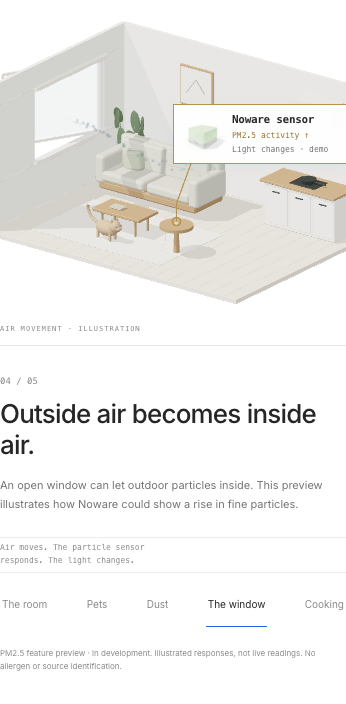
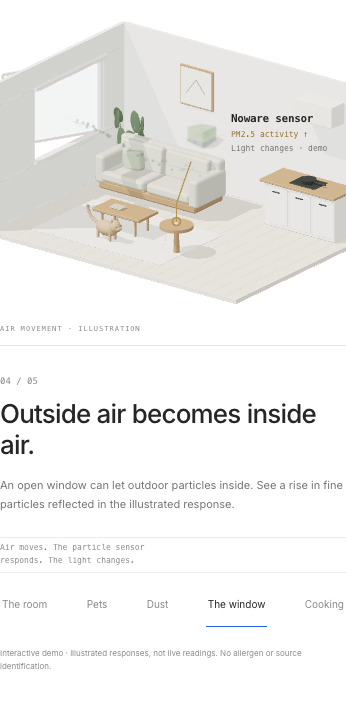
Match loading and live framing and restore original America closing section

diff --git a/src/purpose/purpose.css b/src/purpose/purpose.css
@@ -1,11 +1,11 @@
 .purpose-story{background:#fff;color:#262626;border-top:1px solid #e8e8e8;padding:74px 4.8% 0}
 .purpose-heading{max-width:1200px;margin:0 auto 25px;display:grid;grid-template-columns:1.2fr 1fr;column-gap:10%;align-items:end}.purpose-eyebrow{font:9px ui-monospace,SFMono-Regular,Menlo,monospace;letter-spacing:1.7px;color:#737373;grid-column:1/-1}.purpose-heading h2{font-size:clamp(38px,4vw,60px);line-height:1.08;letter-spacing:-2.4px;font-weight:500;margin:22px 0 0}.purpose-heading>p{font-size:14px;line-height:1.9;color:#737373;max-width:365px;margin:0 0 3px}
-.room-scroll{height:auto;position:relative}.room-sticky{position:relative;top:0;max-width:1300px;margin:auto;padding-bottom:16px;background:#fff}.room-stage{position:relative;height:min(62vh,600px);min-height:330px}.room-stage picture,.room-canvas{position:absolute;inset:0}.room-poster{width:100%;height:100%;object-fit:contain}.room-ready picture{visibility:hidden}.room-canvas canvas{display:block;width:100%;height:100%;touch-action:pan-y}.room-device-label{position:absolute;transform:translate(28px,-45px);pointer-events:none;display:flex;flex-direction:column;gap:3px;background:#ffffffed;padding:9px 12px;border-left:1px solid #a4b39c;font:9px ui-monospace,SFMono-Regular,Menlo,monospace;white-space:nowrap}.room-device-label:before{content:'';position:absolute;left:-29px;bottom:18px;width:28px;height:1px;background:#a4b39c;transform-origin:right;transform:rotate(-25deg)}.room-device-label>span{color:#737373;font-size:8px}.room-device-label strong{font-weight:400;color:#4f6849}.room-device-label small{font:inherit;font-size:8px;color:#737373}.room-cooking .room-device-label strong{color:#9b7735}.room-illustration{position:absolute;bottom:12px;left:0;color:#8a8a8a;font:8px ui-monospace,SFMono-Regular,Menlo,monospace;letter-spacing:1px}
+.room-scroll{height:auto;position:relative}.room-sticky{position:relative;top:0;max-width:1300px;margin:auto;padding-bottom:16px;background:#fff}.room-stage{position:relative;height:auto;aspect-ratio:1300/558;min-height:0}.room-stage picture,.room-canvas{position:absolute;inset:0}.room-poster{width:100%;height:100%;object-fit:contain}.room-ready picture{visibility:hidden}.room-canvas canvas{display:block;width:100%;height:100%;touch-action:pan-y}.room-device-label{position:absolute;transform:translate(28px,-45px);pointer-events:none;display:flex;flex-direction:column;gap:3px;background:#ffffffed;padding:9px 12px;border-left:1px solid #a4b39c;font:9px ui-monospace,SFMono-Regular,Menlo,monospace;white-space:nowrap}.room-device-label:before{content:'';position:absolute;left:-29px;bottom:18px;width:28px;height:1px;background:#a4b39c;transform-origin:right;transform:rotate(-25deg)}.room-device-label>span{color:#737373;font-size:8px}.room-device-label strong{font-weight:400;color:#4f6849}.room-device-label small{font:inherit;font-size:8px;color:#737373}.room-cooking .room-device-label strong{color:#9b7735}.room-illustration{position:absolute;bottom:12px;left:0;color:#8a8a8a;font:8px ui-monospace,SFMono-Regular,Menlo,monospace;letter-spacing:1px}
 .room-caption{display:grid;grid-template-columns:1.2fr 1fr;column-gap:10%;align-items:center;border-top:1px solid #e7e7e7;padding:24px 0;min-height:142px}.room-count{font:9px ui-monospace,SFMono-Regular,Menlo,monospace;color:#8a8a8a}.room-caption h3{font-size:clamp(23px,2.3vw,33px);font-weight:500;line-height:1.2;letter-spacing:-.9px;margin:10px 0 0;max-width:470px}.room-caption>p{font-size:12px;line-height:1.9;color:#737373;margin:0;max-width:395px}
 .room-chapters{display:flex;justify-content:space-between;gap:12px;border-top:1px solid #ececec;padding:10px 0}.room-chapters button{background:none;border:0;border-bottom:1px solid transparent;min-height:44px;font:inherit;font-size:11px;padding:0 8px;color:#8a8a8a;cursor:pointer}.room-chapters button span{font:8px ui-monospace,SFMono-Regular,Menlo,monospace;margin-right:12px;color:#aaa}.room-chapters button[aria-current=step]{color:#262626;border-bottom-color:#2563eb}.room-chapters button[aria-current=step] span{color:#2563eb}.room-chapters .room-resume{font-size:9px}.room-note,.room-fallback{color:#8a8a8a;font-size:9px;line-height:1.7;margin:10px 0 0}.room-fallback{color:#555}.room-unavailable .room-device-label{display:none}.room-unavailable .room-scroll{height:auto}
 .purpose-ending{max-width:1200px;margin:0 auto;padding:65px 0 70px;border-top:1px solid #e7e7e7;position:relative}.purpose-ending h2{font-size:clamp(30px,3vw,44px);line-height:1.15;letter-spacing:-1.7px;font-weight:500;margin:0 0 20px}.purpose-ending p{font-size:14px;line-height:1.8;color:#737373;margin:0}.purpose-ending>span{position:absolute;right:0;bottom:72px;font-size:12px;color:#2563eb}
 .purpose-size{padding:65px 8%;background:#fafafa;display:flex;justify-content:space-between;align-items:center;gap:40px;border-top:1px solid #e8e8e8;border-bottom:1px solid #e8e8e8}.purpose-size[hidden]{display:none}.purpose-size h2{font-size:clamp(32px,3.3vw,48px);line-height:1.15;letter-spacing:-1.8px;font-weight:500;color:#262626;margin:20px 0 18px}.purpose-size p{font-size:13px;color:#737373;margin:0;line-height:1.8}.purpose-size-open{display:flex;gap:30px;align-items:center;background:none;border:0;border-bottom:1px solid #aaa;min-height:48px;padding:10px 0;color:#262626;font:inherit;font-size:12px;cursor:pointer;white-space:nowrap}.purpose-size-open span{font-size:18px}.purpose-story button:focus-visible,.purpose-size-open:focus-visible{outline:2px solid #2563eb;outline-offset:4px}
-@media(max-width:700px){.purpose-story{padding:45px 22px 0}.purpose-heading{display:block;margin-bottom:15px}.purpose-heading h2{font-size:39px;letter-spacing:-1.7px;margin:18px 0}.purpose-heading>p{font-size:12px;line-height:1.8}.room-scroll{height:auto}.room-sticky{position:relative;top:0;padding-bottom:30px}.room-stage{height:345px;min-height:0;margin:0 -16px}.room-device-label{font-size:7px;transform:translate(15px,-45px);padding:6px;gap:2px}.room-device-label>span,.room-device-label small{font-size:7px}.room-device-label:before{left:-16px;width:15px}.room-illustration{left:16px;font-size:7px}.room-caption{display:block;padding:22px 0;min-height:192px}.room-caption h3{font-size:26px;margin:10px 0 15px;letter-spacing:-.8px}.room-caption>p{font-size:11px;line-height:1.8}.room-chapters{gap:5px;justify-content:space-between}.room-chapters button{font-size:10px;padding:0 2px}.room-chapters button span{display:none}.room-note{font-size:8px}.purpose-ending{padding:40px 0}.purpose-ending h2{font-size:32px;letter-spacing:-1.1px}.purpose-ending p{font-size:12px}.purpose-ending>span{position:static;display:block;margin-top:22px;font-size:11px}.purpose-size{padding:40px 22px;flex-direction:column;align-items:flex-start;gap:22px}.purpose-size h2{font-size:33px;letter-spacing:-1.2px}.purpose-size p{font-size:12px}}
+@media(max-width:700px){.purpose-story{padding:45px 22px 0}.purpose-heading{display:block;margin-bottom:15px}.purpose-heading h2{font-size:39px;letter-spacing:-1.7px;margin:18px 0}.purpose-heading>p{font-size:12px;line-height:1.8}.room-scroll{height:auto}.room-sticky{position:relative;top:0;padding-bottom:30px}.room-stage{height:auto;aspect-ratio:378/345;min-height:0;margin:0 -16px}.room-device-label{font-size:7px;transform:translate(15px,-45px);padding:6px;gap:2px}.room-device-label>span,.room-device-label small{font-size:7px}.room-device-label:before{left:-16px;width:15px}.room-illustration{left:16px;font-size:7px}.room-caption{display:block;padding:22px 0;min-height:192px}.room-caption h3{font-size:26px;margin:10px 0 15px;letter-spacing:-.8px}.room-caption>p{font-size:11px;line-height:1.8}.room-chapters{gap:5px;justify-content:space-between}.room-chapters button{font-size:10px;padding:0 2px}.room-chapters button span{display:none}.room-note{font-size:8px}.purpose-ending{padding:40px 0}.purpose-ending h2{font-size:32px;letter-spacing:-1.1px}.purpose-ending p{font-size:12px}.purpose-ending>span{position:static;display:block;margin-top:22px;font-size:11px}.purpose-size{padding:40px 22px;flex-direction:column;align-items:flex-start;gap:22px}.purpose-size h2{font-size:33px;letter-spacing:-1.2px}.purpose-size p{font-size:12px}}
 @media(prefers-reduced-motion:reduce){.room-scroll{height:auto}.room-sticky{position:relative;top:0}}
 
 .room-playback{display:flex;align-items:center;justify-content:space-between;gap:20px;border-top:1px solid #ececec;padding:4px 0}.room-play{background:none;border:0;min-height:44px;padding:0 8px;font:inherit;font-size:11px;color:#404040;cursor:pointer}.room-sequence{font:9px ui-monospace,SFMono-Regular,Menlo,monospace;color:#8a8a8a}.purpose-story[data-detection=sensing] .room-device-label,.purpose-story[data-detection=signal] .room-device-label{border-color:#b69251}.purpose-story[data-detection=signal] .room-device-label strong{color:#95712d}

diff --git a/src/showcase/scene.js b/src/showcase/scene.js
@@ -16,18 +16,21 @@ export async function createScene(host,state,onSelect,onReady){
  const diffuser=parts.diffuser;diffuser.material=new T.MeshPhysicalMaterial({color:'#e1f0d5',roughness:.5,metalness:0,transmission:.08,thickness:1.3,ior:1.45,emissive:settings.colors.good,emissiveIntensity:.28});
  diffuser.material.onBeforeCompile=shader=>{shader.vertexShader=shader.vertexShader.replace('#include <common>','#include <common>\nvarying vec3 vShellPosition;').replace('#include <begin_vertex>','#include <begin_vertex>\nvShellPosition = position;');shader.fragmentShader=shader.fragmentShader.replace('#include <common>','#include <common>\nvarying vec3 vShellPosition;').replace('#include <emissivemap_fragment>','#include <emissivemap_fragment>\nfloat diffusion = 1.0 - smoothstep(10.0, 33.0, vShellPosition.y);\ntotalEmissiveRadiance *= 0.35 + diffusion * 1.5;\ndiffuseColor.rgb *= 0.995 + 0.005 * sin(vShellPosition.y * 35.0);');};
  const bases=new Map();model.traverse(o=>{if(o.material?.emissive)bases.set(o,o.material.emissive.clone())});
- const flow=makeAirflow();pivot.add(flow.group);let raf=0,visible=true,previous=performance.now(),time=0,currentExplode=0,rotation=0,tilt=0;const tint=new T.Color(settings.colors[state.air]);
+ const flow=makeAirflow();pivot.add(flow.group);let raf=0,visible=true,previous=performance.now(),time=0,currentExplode=0,rotation=0,tilt=0,renderWidth=0,renderHeight=0,ready=false;const tint=new T.Color(settings.colors[state.air]);
  const labels=[...host.parentElement.querySelectorAll('[data-anchor]')];
- function resize(){const w=host.clientWidth,h=host.clientHeight;if(!w||!h)return;renderer.setSize(w,h);camera.aspect=w/h;const distance=innerWidth<650?1.15:1;camera.position.set(...settings.camera).multiplyScalar(distance);camera.lookAt(...settings.target);camera.updateProjectionMatrix();wake();}
- function frame(now){raf=0;if(disposed||!visible||document.hidden)return;const dt=Math.max(0,Math.min((now-previous)/1000,.05));previous=now;time+=dt;const pose=storyPose(state.progress);const target=state.mode==='scroll'?pose.explode:state.exploded?1:0;currentExplode=state.reduced?target:T.MathUtils.damp(currentExplode,target,5,dt);for(const [name,offset]of Object.entries(settings.explode))parts[name].position.y=offset*currentExplode;
+ function resize(){wake()}
+ function frame(now){raf=0;if(disposed||!visible||document.hidden)return;
+ const width=host.clientWidth,height=host.clientHeight;if(!width||!height)return;
+ if(width!==renderWidth||height!==renderHeight){renderer.setSize(width,height,false);renderWidth=width;renderHeight=height;camera.aspect=width/height;camera.fov=T.MathUtils.radToDeg(2*Math.atan(Math.tan(T.MathUtils.degToRad(settings.fov)/2)*Math.max(1,settings.posterAspect/camera.aspect)));camera.updateProjectionMatrix()}
+ const dt=Math.max(0,Math.min((now-previous)/1000,.05));previous=now;time+=dt;const pose=storyPose(state.progress);const target=state.mode==='scroll'?pose.explode:state.exploded?1:0;currentExplode=state.reduced?target:T.MathUtils.damp(currentExplode,target,5,dt);for(const [name,offset]of Object.entries(settings.explode))parts[name].position.y=offset*currentExplode;
  tint.lerp(new T.Color(settings.colors[state.air]),state.reduced?1:1-Math.exp(-dt*4));diffuser.material.emissive.copy(tint);diffuser.material.color.copy(new T.Color('#faf8eb').lerp(tint,.55));diffuser.material.emissiveIntensity=.36*(1-currentExplode*.5);spill.material.color.copy(tint);spill.material.opacity=.14*(1-currentExplode*.8);
  rotation=state.reduced?state.rotation:T.MathUtils.damp(rotation,state.rotation,8,dt);tilt=state.reduced?state.tilt:T.MathUtils.damp(tilt,state.tilt,8,dt);pivot.rotation.y=rotation+(!state.reduced&&!state.dragging&&state.rotation===0?Math.sin(time*.22)*.035:0);pivot.rotation.x=tilt;pivot.position.y=state.reduced?0:(1-currentExplode)*(1.2+Math.sin(time*.8)*.45);
  for(const [o,base]of bases){if(o===diffuser)continue;let p=o,selected=false;while(p){if(p.name===state.selected)selected=true;p=p.parent}o.material.emissive.copy(selected?new T.Color('#6c9470').multiplyScalar(.25):base);}
  flow.group.position.y=currentExplode*settings.explode.pcb;flow.update(time,tint,state.reduced);
  const sensor=parts.U2;if(flow.group.visible)sensor.traverse(o=>{if(o.material?.emissive)o.material.emissive.copy(tint).multiplyScalar(.22)});
- const distance=(innerWidth<650?1.15:1)*(1+currentExplode*.2);camera.position.set(...settings.camera).multiplyScalar(distance);camera.lookAt(0,19+currentExplode*14,0);
+ const distance=(1+currentExplode*.2);camera.position.set(...settings.camera).multiplyScalar(distance);camera.lookAt(0,19+currentExplode*14,0);
  scene.updateMatrixWorld(true);for(const label of labels){const o=parts[label.dataset.anchor];const pos=new T.Box3().setFromObject(o).getCenter(new T.Vector3()).project(camera);label.style.left=(pos.x*.5+.5)*host.clientWidth+'px';label.style.top=(-pos.y*.5+.5)*host.clientHeight+'px';label.hidden=currentExplode<.65;}
- renderer.render(scene,camera);host.dataset.explode=currentExplode.toFixed(2);host.dataset.flow=String(flow.group.visible);host.dataset.air=state.air;host.dataset.drawCalls=renderer.info.render.calls;host.dataset.triangles=renderer.info.render.triangles;
+ renderer.render(scene,camera);if(!ready){ready=true;onReady()}host.dataset.explode=currentExplode.toFixed(2);host.dataset.flow=String(flow.group.visible);host.dataset.air=state.air;host.dataset.drawCalls=renderer.info.render.calls;host.dataset.triangles=renderer.info.render.triangles;
  if(!state.reduced||Math.abs(currentExplode-target)>.001)raf=requestAnimationFrame(frame);
  }
  function wake(){if(!raf&&!disposed&&visible&&!document.hidden){previous=performance.now();raf=requestAnimationFrame(frame)}}
@@ -38,5 +41,5 @@ export async function createScene(host,state,onSelect,onReady){
  const move=e=>{if(!drag)return;const dx=e.clientX-drag.x,dy=e.clientY-drag.y;if(Math.abs(dx)>5)drag.moved=true;if(e.pointerType==='touch'&&Math.abs(dy)>Math.abs(dx))return;state.rotation=Math.max(-1.5,Math.min(1.5,drag.r+dx*.008));if(e.pointerType!=='touch')state.tilt=Math.max(-.18,Math.min(.3,drag.t+dy*.003));wake()};
  const up=e=>{if(drag&&!drag.moved){const r=canvas.getBoundingClientRect(),ray=new T.Raycaster();ray.setFromCamera(new T.Vector2((e.clientX-r.left)/r.width*2-1,-(e.clientY-r.top)/r.height*2+1),camera);let hit=ray.intersectObject(model,true)[0]?.object;while(hit&&!components[hit.name])hit=hit.parent;if(hit)onSelect(hit.name)}drag=null;state.dragging=false;wake()};
  canvas.addEventListener('pointerdown',down);canvas.addEventListener('pointermove',move);canvas.addEventListener('pointerup',up);canvas.addEventListener('pointercancel',()=>{drag=null;state.dragging=false});
- resize();wake();onReady();return {wake,dispose(){disposed=true;cancelAnimationFrame(raf);observer.disconnect();intersection.disconnect();document.removeEventListener('visibilitychange',visibility);scene.traverse(o=>{o.geometry?.dispose();for(const m of Array.isArray(o.material)?o.material:o.material?[o.material]:[])m.dispose()});glowTexture.dispose();env.dispose();renderer.dispose();canvas.remove();}};
+ resize();wake();return {wake,dispose(){disposed=true;cancelAnimationFrame(raf);observer.disconnect();intersection.disconnect();document.removeEventListener('visibilitychange',visibility);scene.traverse(o=>{o.geometry?.dispose();for(const m of Array.isArray(o.material)?o.material:o.material?[o.material]:[])m.dispose()});glowTexture.dispose();env.dispose();renderer.dispose();canvas.remove();}};
 }

diff --git a/src/purpose/index.js b/src/purpose/index.js
@@ -7,8 +7,8 @@ export function mountPurpose(){
  <div class="room-caption" aria-live="polite" aria-atomic="true"><div><span class="room-count">01 / 05</span><h3>${roomChapters[0].title}</h3></div><p>${roomChapters[0].body}</p></div>
  <div class="room-playback"><button type="button" class="room-play" aria-label="Pause illustration">Pause illustration <span aria-hidden="true">Ⅱ</span></button><span class="room-sequence">Air moves. The particle sensor responds. The light changes.</span></div>
  <nav class="room-chapters" aria-label="Explore everyday changes in the room">${roomChapters.map((s,i)=>`<button type="button" data-room-chapter="${i}" aria-current="${i===0?'step':'false'}"><span>0${i+1}</span>${s.name}</button>`).join('')}</nav><p class="room-note">Interactive demo · illustrated responses, not live readings. No allergen or source identification.</p><p class="room-fallback" role="status" hidden>The room preview is shown. Use the chapter controls to explore the story.</p></div></div>
- <div class="purpose-ending"><h2>Know what’s changing your air.</h2><p>See when it gets worse. Understand what happened.<br>Know when it’s getting better.</p><span>Made in America.</span></div>`;
- document.querySelector('.hardware-origin').replaceWith(section);
+ <div class="purpose-ending"><h2>Know what’s changing your air.</h2><p>See when it gets worse. Understand what happened.<br>Know when it’s getting better.</p></div>`;
+ document.querySelector('.hardware-origin').before(section);
  const finale=document.createElement('section');finale.id='size-intro';finale.className='purpose-size';finale.innerHTML=`<div><span class="purpose-eyebrow">SMALL BY DESIGN</span><h2>All that.<br>About the size of an egg.</h2><p>A familiar reference for a surprisingly small object.</p></div><button class="purpose-size-open" type="button" aria-expanded="false" aria-controls="size">See the size comparison <span aria-hidden="true">↗</span></button>`;section.after(finale);
  const reduced=matchMedia('(prefers-reduced-motion: reduce)'),state={progress:0,reduced:reduced.matches,mode:reduced.matches?'manual':'play'};let scene,dead=false,lastChapter=-1;
  function sync(wake=true){const chapter=roomChapterAt(state.progress),s=roomChapters[chapter];section.dataset.chapter=chapter;section.dataset.mode=state.mode;section.classList.toggle('room-cooking',chapter===4);if(chapter!==lastChapter){section.querySelector('.room-caption h3').textContent=s.title;section.querySelector('.room-caption p').textContent=s.body;section.querySelector('.room-count').textContent=`0${chapter+1} / 05`;section.querySelector('.room-device-label strong').textContent=s.signal;section.querySelector('.room-device-label small').textContent=s.status;section.querySelectorAll('[data-room-chapter]').forEach(b=>b.setAttribute('aria-current',Number(b.dataset.roomChapter)===chapter?'step':'false'));lastChapter=chapter}const play=section.querySelector('.room-play');play.hidden=state.reduced;play.textContent=state.mode==='play'?'Pause illustration Ⅱ':state.progress>=.99?'Replay illustration ↻':'Play illustration →';play.setAttribute('aria-label',state.mode==='play'?'Pause illustration':'Play illustration');if(wake)scene?.wake()}

diff --git a/src/showcase/showcase.css b/src/showcase/showcase.css
@@ -40,7 +40,7 @@
 .hardware-canvas, .hardware-poster { position: absolute; inset: 0; width: 100%; height: 100%; }
 .hardware-poster { object-fit: contain; transition: opacity .5s; }
 .hardware-ready .hardware-poster { opacity: 0; pointer-events: none; }
-.hardware-canvas canvas { display: block; touch-action: pan-y; cursor: grab; }
+.hardware-canvas canvas { width:100%;height:100%;display: block; touch-action: pan-y; cursor: grab; }
 .hardware-canvas canvas:active { cursor: grabbing; }
 .hardware-model-meta { position: absolute; z-index: 2; top: 16px; left: 7%; font-size: 9px; letter-spacing: .2px; color: #8a8a8a; pointer-events: none; }
 .hardware-view-tools { position: absolute; bottom: 7px; left: 0; right: 0; display: flex; align-items: center; justify-content: center; gap: 20px; font-size: 9px; color: #8a8a8a; }

diff --git a/src/showcase/config.js b/src/showcase/config.js
@@ -1,4 +1,4 @@
-export const settings={camera:[83,65,98],target:[0,19,0],fov:35,explode:{diffuser:39,airwall:23,pcb:12},colors:{good:'#91d980',attention:'#edc35b',poor:'#e87969'},pixelRatio:{desktop:1.7,mobile:1.3},flowCount:280};
+export const settings={camera:[83,65,98],target:[0,19,0],fov:35,posterAspect:794/560,explode:{diffuser:39,airwall:23,pcb:12},colors:{good:'#91d980',attention:'#edc35b',poor:'#e87969'},pixelRatio:{desktop:1.7,mobile:1.3},flowCount:280};
 export const chapters=[
  ['01','A little presence.','A clearer picture of the air around you. Explore the hardware behind a simple signal.'],
  ['02','Nothing to hide.','Lift the diffuser. Meet the board, the sensors, and the small details that make it work.'],

diff --git a/scripts/purpose/HANDOFF.md b/scripts/purpose/HANDOFF.md
@@ -33,3 +33,6 @@ Customer-facing copy now uses design-intent language and a discreet Interactive 
 
 ### Loading and layout stability
 `node scripts/purpose/stability.mjs` delays GLB loading, verifies the callout stays hidden until its first correctly positioned frame, checks its stationary position during animation, and exercises mobile/desktop resizing. Frame deltas are clamped nonnegative to prevent early rAF timestamps from producing negative particle-path parameters. Canvas resize and redraw happen in the same frame, and room camera drift is removed.
+
+### Refresh framing and original closing section
+Room stage proportions are fixed per breakpoint to match the fallback renders. The hero camera fits the poster’s reference aspect (`settings.posterAspect` in `src/showcase/config.js`), with no independent mobile camera-distance multiplier. The hero poster stays until the first rendered frame; resizing redraws atomically. `scripts/purpose/framing.mjs` and `scripts/showcase/framing.mjs` compare rendered object bounds with posters and repeat after refresh at five viewport sizes. Regenerate the hero poster with `node scripts/showcase/poster.mjs`. The original `.hardware-origin` closing section is preserved after the size comparison, including its blue Made in America styling.
